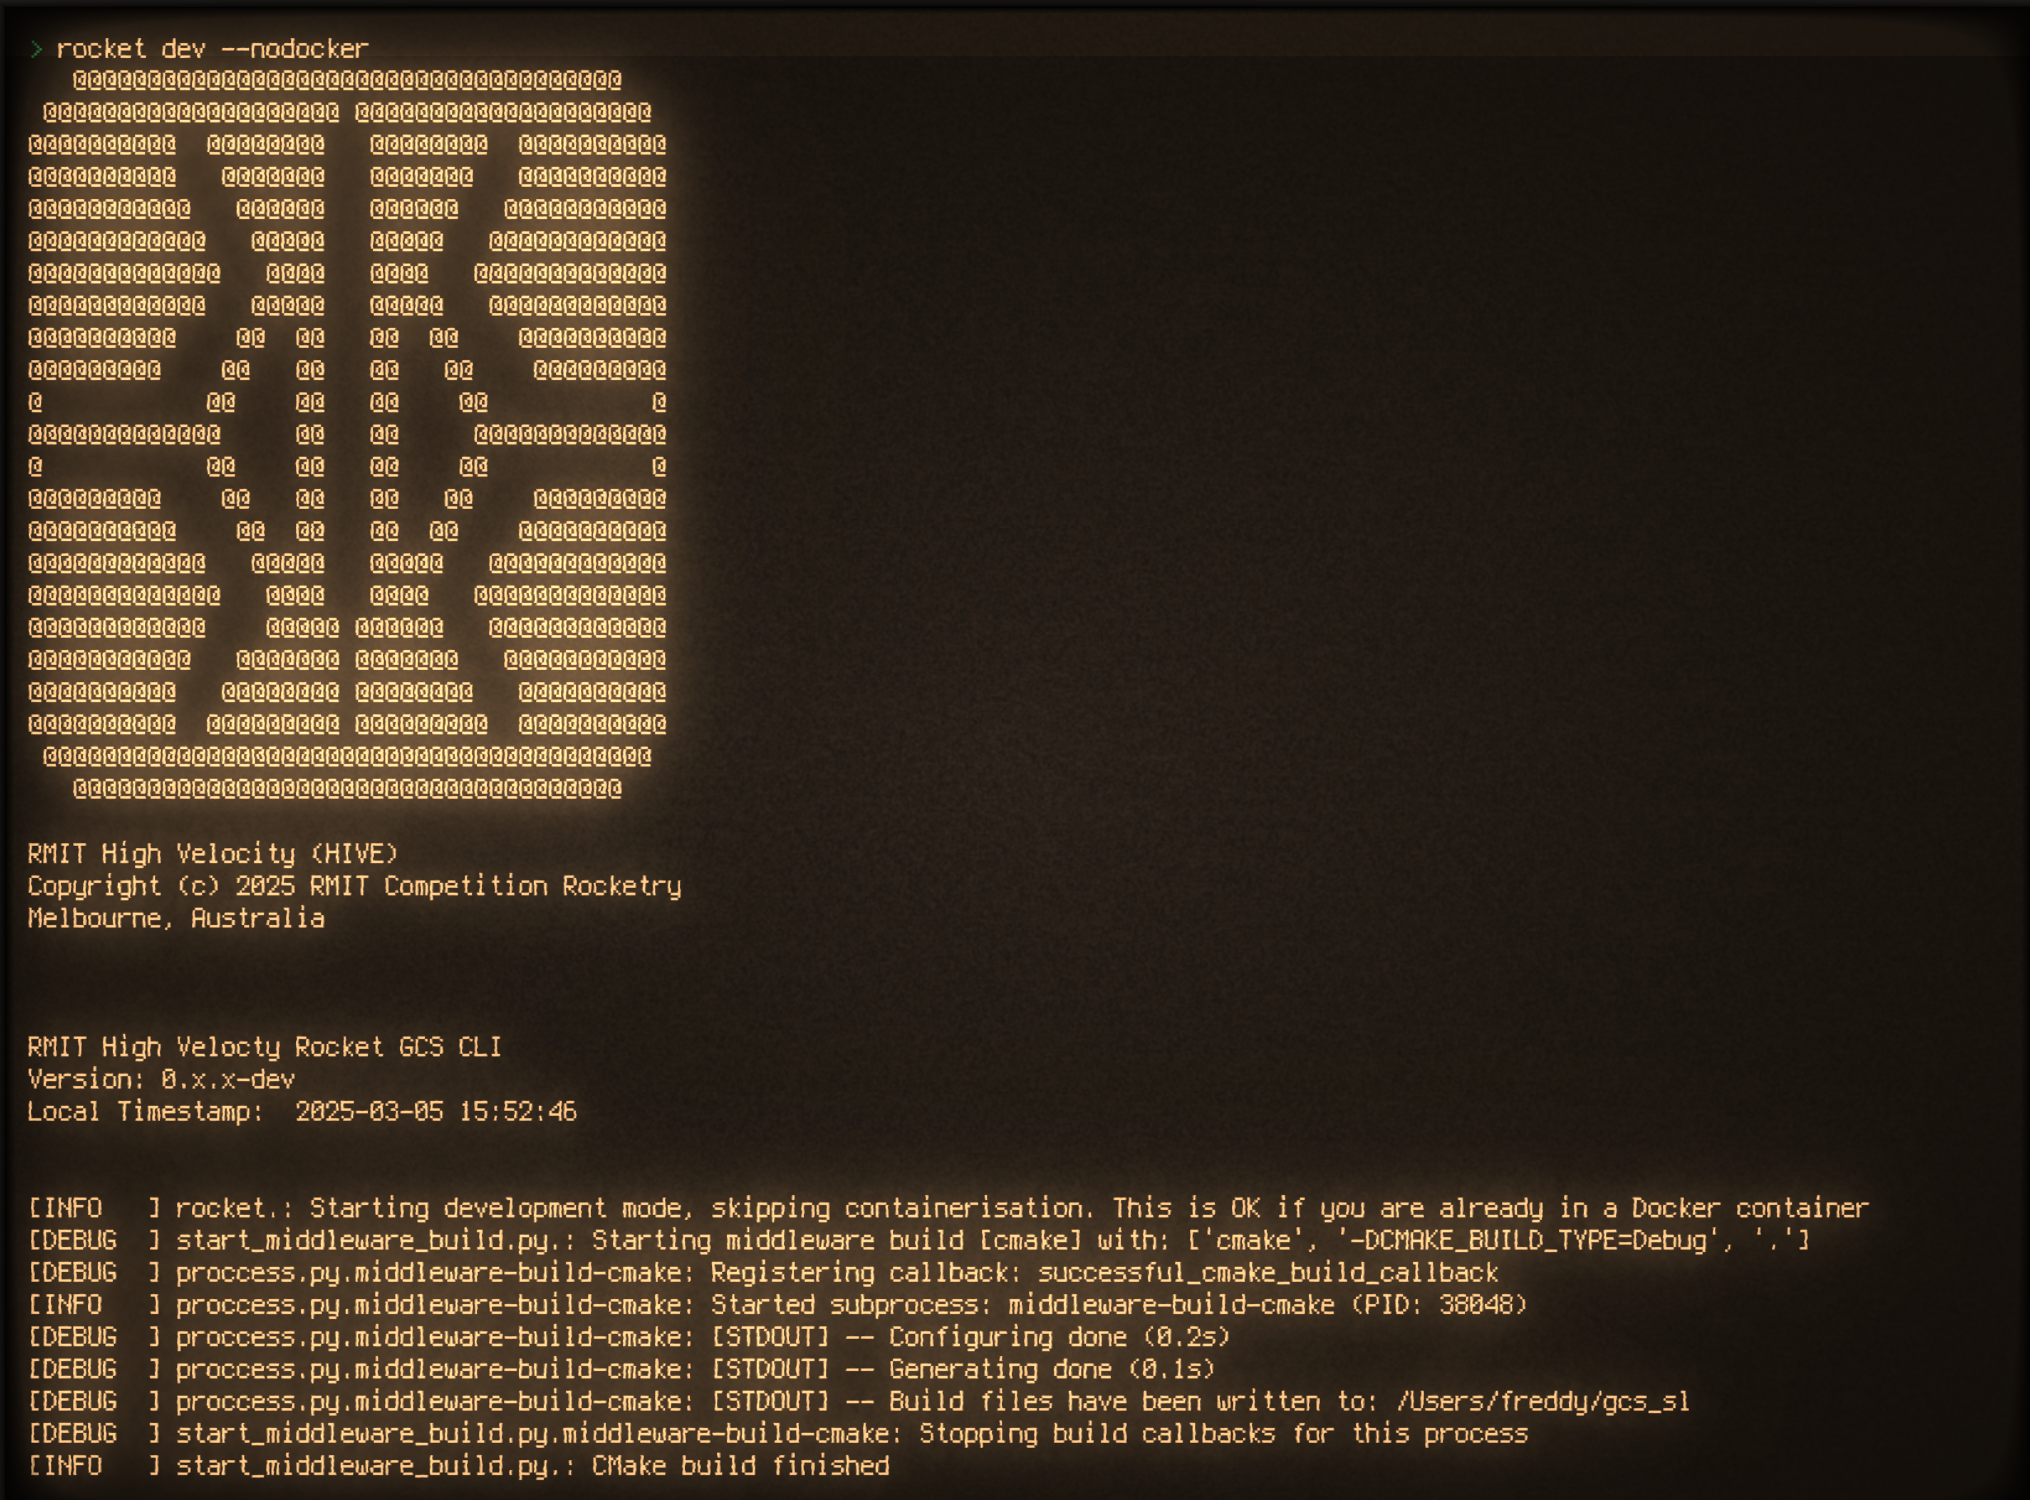
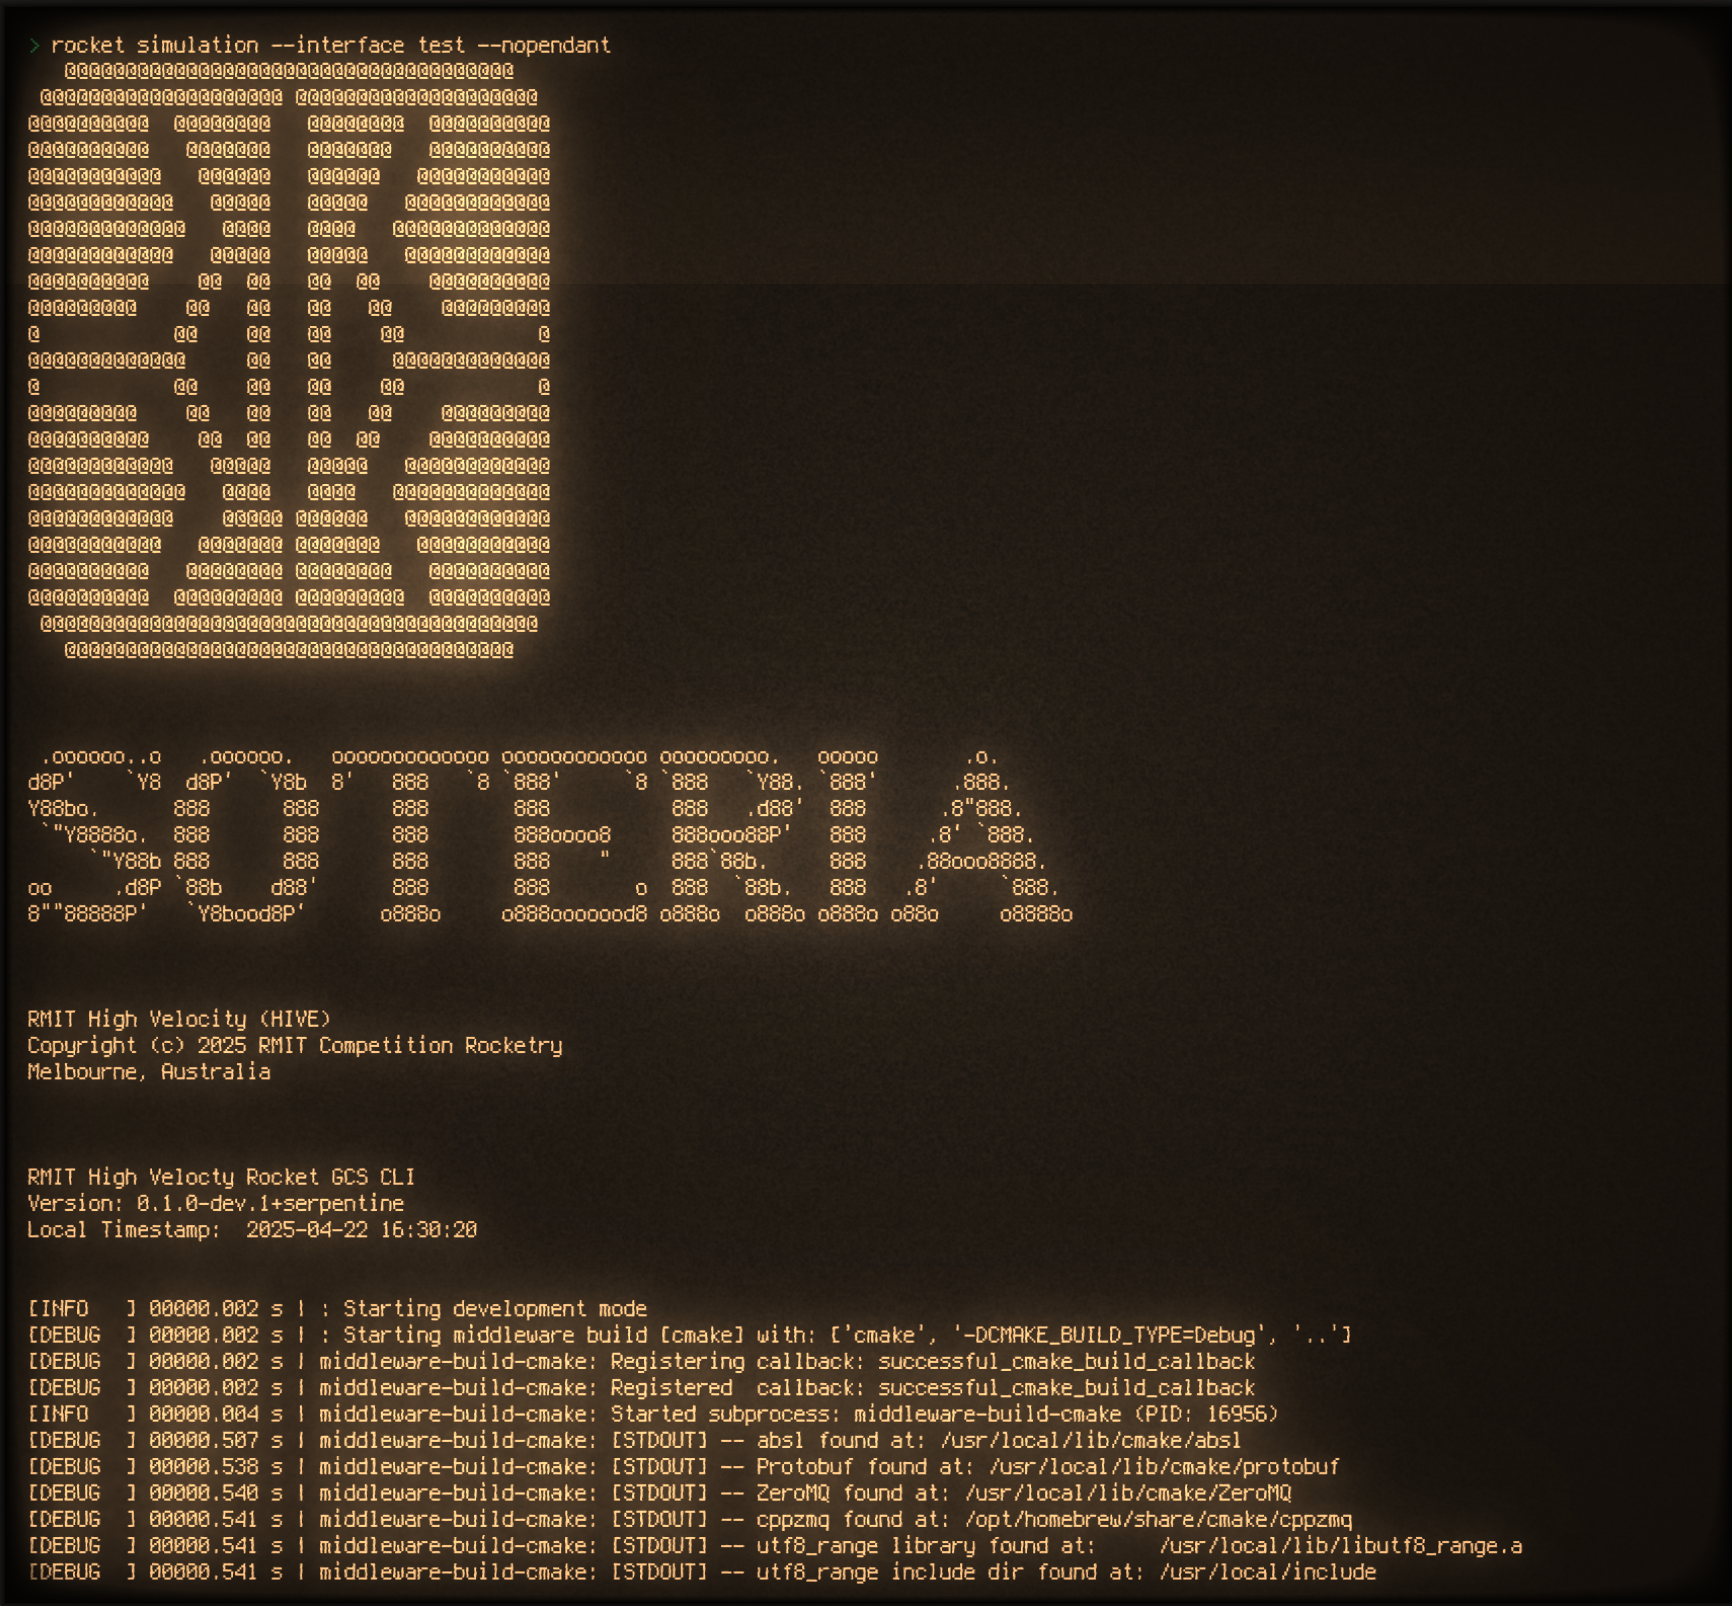
more swag

Changed region(s): [[0.0, 0.0, 0.9353, 1.0]]

diff --git a/README.md b/README.md
@@ -2,15 +2,15 @@
 
 <p>
     <img src="https://raw.githubusercontent.com/RMIT-Competition-Rocketry/.github/refs/heads/main/assets/hive_badge.svg" height="20rem">
-    <img alt="Static Badge" src="https://img.shields.io/badge/status-work_in_progress-orange">
+    <img alt="Static Badge" src="https://img.shields.io/badge/status-work_in_progress-black">
     <img src="https://github.com/RMIT-Competition-Rocketry/GCS/actions/workflows/build_and_test_cpp.yml/badge.svg" height="20rem">
 </p>
 
 ![banner](docs/assets/banner.png)
 
-Code repository for RMIT HIVE's IREC competition team rocket GCS (**Ground Control Station**) data ingestion and visulisation software.
+Code repository for RMIT HIVE's IREC competition team rocket GCS (**Ground Control Station**) data ingestion and visualisation software.
 
-Our GCS is named after **Soteria**, the Greek goddess of safety and deliverance from harm.
+**Named after Soteria, the Greek goddess of safety and deliverance from harm.**
 
 
 <!-- TODO Make a monochrome png for logos. Consider https://simpleicons.org/ -->
@@ -23,7 +23,7 @@ Our GCS is named after **Soteria**, the Greek goddess of safety and deliverance 
 
 - [Setup](docs/setup.md)
 - [Usage](docs/usage.md)
-- [Pendant Emulator Quick Refference](docs/pendant_emulator.md)
+- [Pendant Emulator Quick Reference](docs/pendant_emulator.md)
 - [System Design](docs/system_design.md)
 - [Development](docs/development.md)
 - [Glossary](docs/glossary.md)
@@ -36,7 +36,7 @@ Our GCS is named after **Soteria**, the Greek goddess of safety and deliverance 
 
 ## Description
 
-The Ground Control Station (GCS) is RMIT HIVE's computer control system for GSE control and avionics communication and visualisation. The core of the GCS is a single computer running SRAD software with SRAD LoRa radio hardware peripherals. The SRAD software converts raw serial input from physical radio interfaces into human readable output for efficient system monitoring for the GCS operator, and aesthetic visualisations for non-technical viewers. The GCS operator will see when any of our systems are having issues with alert and warning readouts so they can make an informed GO/NO-GO call very quickly. Spectators and other team members will have access to several different views detailing all telemetry from both GSE and avionics systems.
+The Ground Control Station (GCS) is RMIT HIVE's computer control system for GSE control and avionics communication and visualisation. The core of the GCS is a single computer running SRAD software with SRAD LoRa radio hardware peripherals. The SRAD software converts raw serial input from physical radio interfaces into human-readable output for efficient system monitoring for the GCS operator, and aesthetic visualisations for non-technical viewers. The GCS operator will see when any of our systems are having issues with alert and warning readouts so they can make an informed GO/NO-GO call very quickly. Spectators and other team members will have access to several different views detailing all telemetry from both GSE and avionics systems.
 
 ## Credit
 
